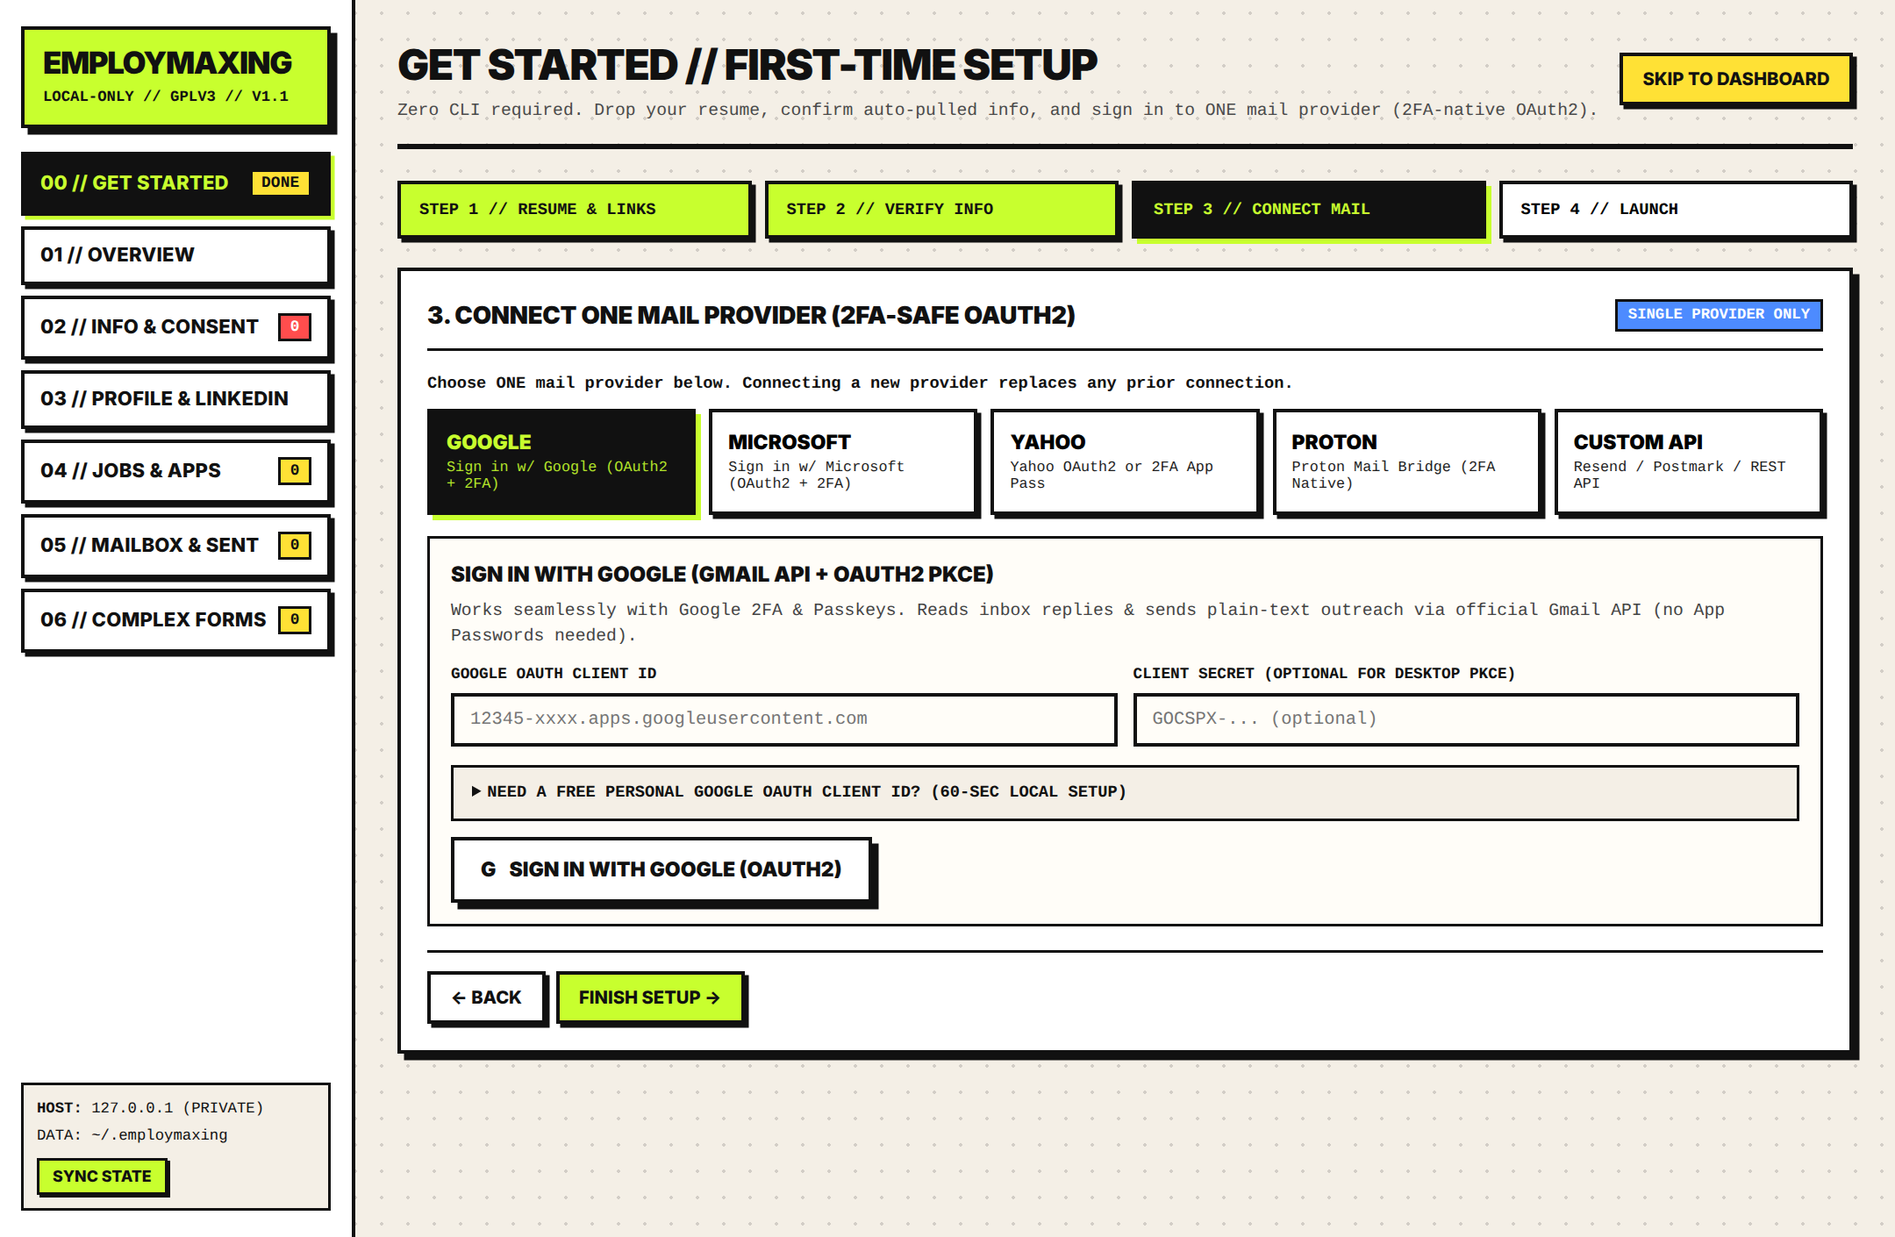
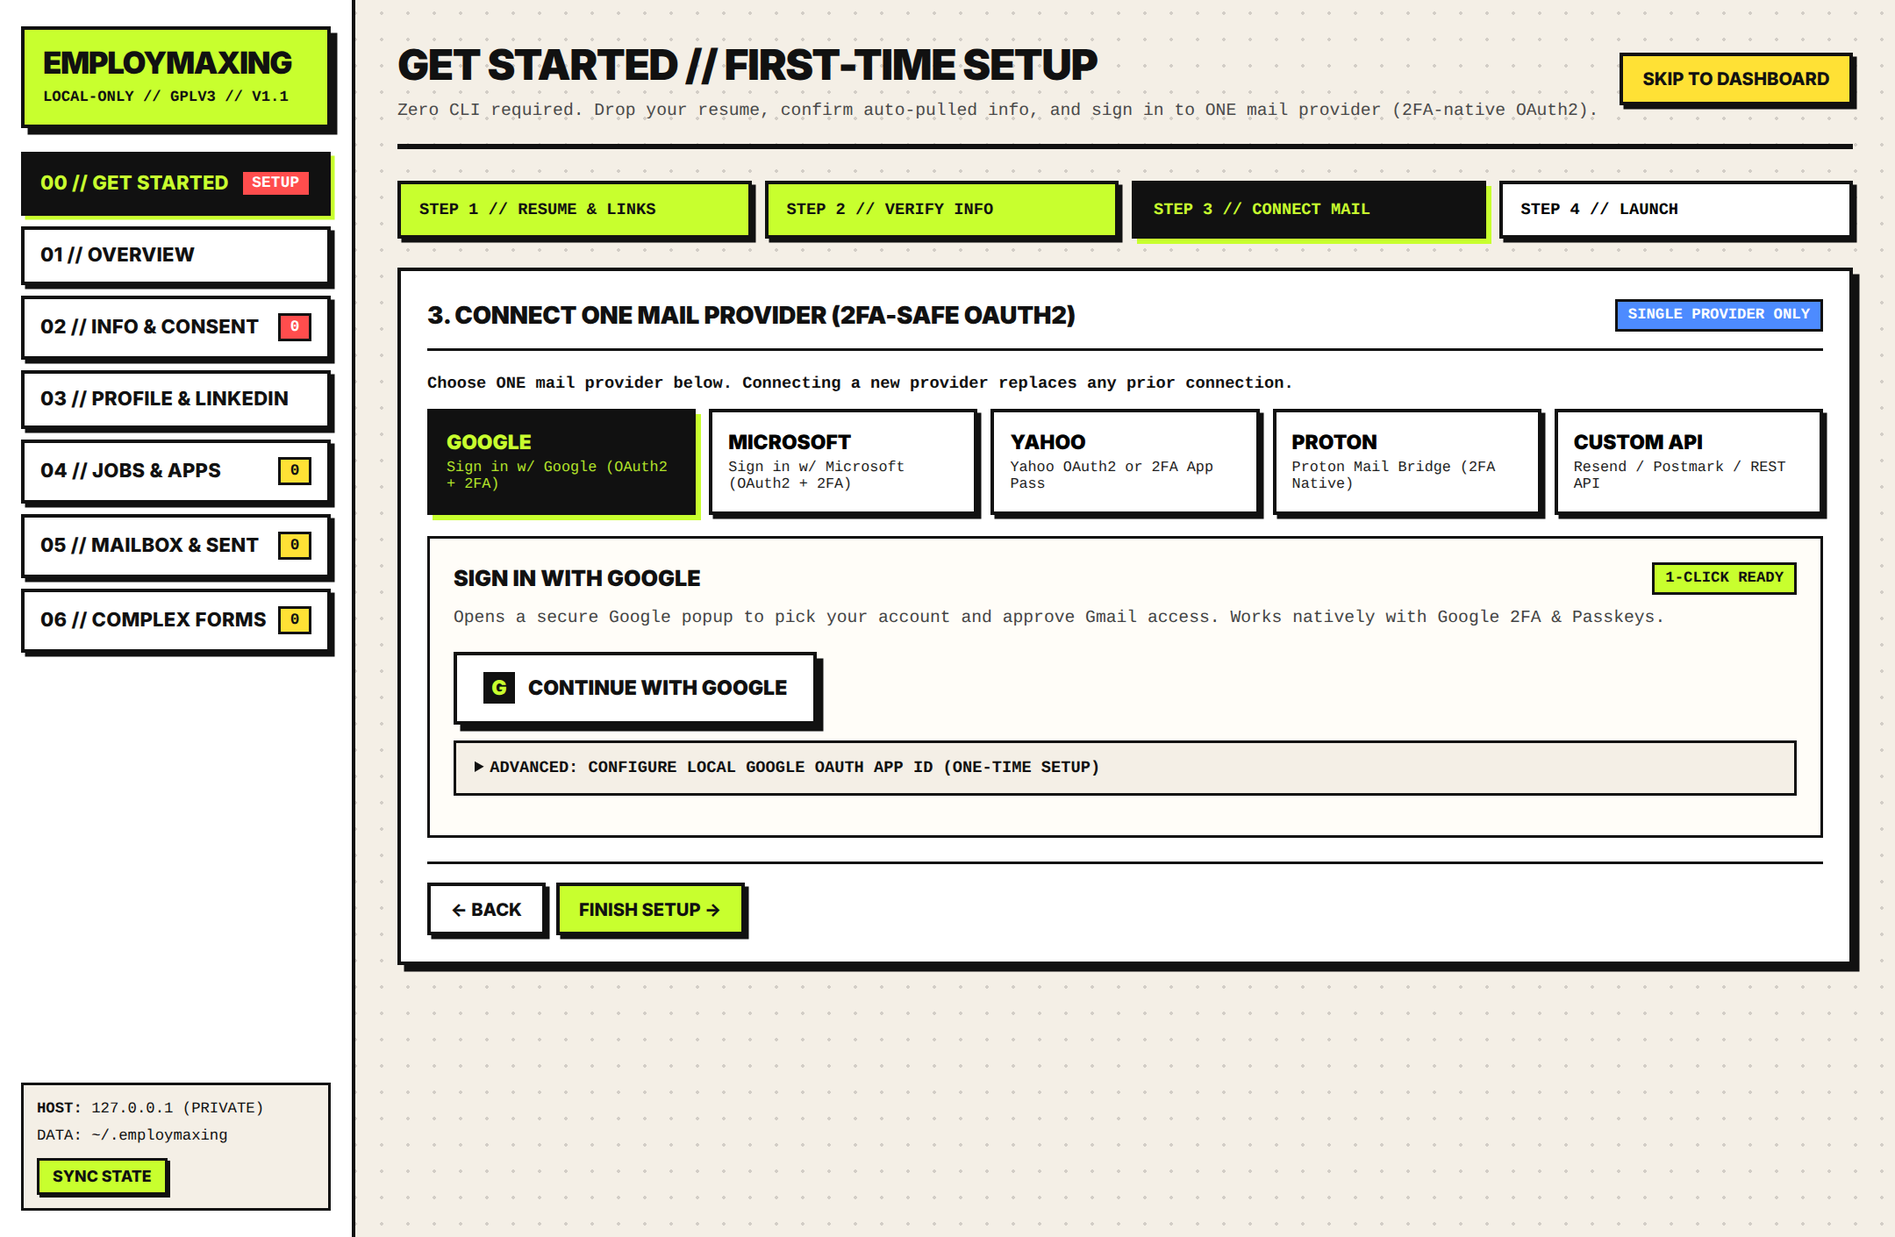
feat(oauth): simplify mail login to 1-click Continue with Google/Microsoft/Yahoo popup with bundled oauth_defaults.json support

Changed region(s): [[0.1861, 0.4369, 0.9926, 0.8738], [0.1241, 0.1248, 0.1861, 0.156]]

diff --git a/web/app.js b/web/app.js
@@ -256,98 +256,115 @@ function renderSingleProviderHTML(prefix) {
     `).join('')}
   </div>`;
 
+  const readyMap = cfg.oauth_ready || {};
+
   if (sel === 'google') {
     const uri = redir.google || `${location.origin}/api/oauth/google/callback`;
+    const isReady = !!readyMap.google;
     html += `
-      <div style="border:2px solid #111;padding:16px;background:#FFFDF8;">
-        <div style="font-weight:900;text-transform:uppercase;margin-bottom:6px;">Sign in with Google (Gmail API + OAuth2 PKCE)</div>
-        <p class="mono" style="margin-bottom:12px;color:#444;">Works seamlessly with Google 2FA &amp; Passkeys. Reads inbox replies &amp; sends plain-text outreach via official Gmail API (no App Passwords needed).</p>
-        <div class="form-grid">
-          <div>
-            <label class="field-label">Google OAuth Client ID</label>
-            <input type="text" id="${prefix}-google-cid" value="${esc(cfg.provider === 'google' ? (cfg.client_id || '') : '')}" placeholder="12345-xxxx.apps.googleusercontent.com" />
-          </div>
-          <div>
-            <label class="field-label">Client Secret (Optional for Desktop PKCE)</label>
-            <input type="password" id="${prefix}-google-csec" placeholder="GOCSPX-... (optional)" />
-          </div>
+      <div style="border:2px solid #111;padding:18px;background:#FFFDF8;">
+        <div style="display:flex;justify-content:space-between;align-items:center;gap:10px;margin-bottom:8px;">
+          <div style="font-weight:900;font-size:1.05rem;text-transform:uppercase;">Sign in with Google</div>
+          <span class="tag ${isReady ? 'tag-lime' : 'tag-yellow'}">${isReady ? '1-CLICK READY' : '1-TIME APP ID NEEDED'}</span>
         </div>
-        <details class="brutal-details">
-          <summary>Need a free personal Google OAuth Client ID? (60-sec local setup)</summary>
-          <div class="mono" style="margin-top:8px;font-size:0.76rem;line-height:1.5;">
-            1. Open Google Cloud Console &rarr; APIs &amp; Services &rarr; Enable <strong>Gmail API</strong>.<br/>
-            2. Create <strong>OAuth Client ID</strong> (Web Application) and add Authorized Redirect URI:<br/>
-            <code style="background:#FFE135;padding:2px 6px;">${esc(uri)}</code>
-            <button type="button" class="btn btn-sm btn-yellow" style="margin-left:6px;" onclick="copyText('${esc(uri)}')">Copy URI</button>
-          </div>
-        </details>
+        <p class="mono" style="margin-bottom:16px;color:#444;">Opens a secure Google popup to pick your account and approve Gmail access. Works natively with Google 2FA &amp; Passkeys.</p>
         <button type="button" class="oauth-btn google" onclick="startOAuth('google', '${prefix}')">
-          <span>G</span> <span>Sign in with Google (OAuth2)</span>
+          <span style="display:inline-flex;width:24px;height:24px;align-items:center;justify-content:center;background:#111;color:#C8FF2E;font-weight:900;">G</span>
+          <span>Continue with Google</span>
         </button>
+        <details class="brutal-details" id="${prefix}-google-setup" ${isReady ? '' : ''}>
+          <summary>Advanced: Configure Local Google OAuth App ID (One-Time Setup)</summary>
+          <div class="mono" style="margin-top:10px;font-size:0.76rem;line-height:1.55;">
+            Because Employmaxing runs 100% locally on your computer with no cloud middleman, Google requires an OAuth Client ID once (or set it in <code>employmaxing/oauth_defaults.json</code> for all users):<br/>
+            1. <a href="https://console.cloud.google.com/apis/credentials" target="_blank"><strong>Open Google Cloud Credentials &nearr;</strong></a> &rarr; Enable <strong>Gmail API</strong> &rarr; Create <strong>OAuth Client ID (Web App)</strong>.<br/>
+            2. Add Redirect URI: <code style="background:#FFE135;padding:2px 6px;">${esc(uri)}</code>
+            <button type="button" class="btn btn-sm btn-yellow" style="margin-left:4px;" onclick="copyText('${esc(uri)}')">Copy</button>
+          </div>
+          <div class="form-grid" style="margin-top:10px;">
+            <div>
+              <label class="field-label">Google OAuth Client ID</label>
+              <input type="text" id="${prefix}-google-cid" value="${esc(cfg.provider === 'google' ? (cfg.client_id || '') : '')}" placeholder="12345-xxxx.apps.googleusercontent.com" />
+            </div>
+            <div>
+              <label class="field-label">Client Secret (Optional for PKCE)</label>
+              <input type="password" id="${prefix}-google-csec" placeholder="GOCSPX-... (optional)" />
+            </div>
+          </div>
+          <button type="button" class="btn btn-sm btn-lime" onclick="startOAuth('google', '${prefix}')">Save &amp; Open Google Sign-In Popup &rarr;</button>
+        </details>
       </div>
     `;
   } else if (sel === 'microsoft') {
     const uri = redir.microsoft || `${location.origin}/api/oauth/microsoft/callback`;
+    const isReady = !!readyMap.microsoft;
     html += `
-      <div style="border:2px solid #111;padding:16px;background:#FFFDF8;">
-        <div style="font-weight:900;text-transform:uppercase;margin-bottom:6px;">Sign in with Microsoft (Outlook / M365 Graph API + PKCE)</div>
-        <p class="mono" style="margin-bottom:12px;color:#444;">Works seamlessly with Microsoft Authenticator &amp; 2FA. Public PKCE client — <strong>no client secret required</strong>.</p>
-        <div class="form-grid">
-          <div>
-            <label class="field-label">Microsoft App (Client) ID</label>
-            <input type="text" id="${prefix}-microsoft-cid" value="${esc(cfg.provider === 'microsoft' ? (cfg.client_id || '') : '')}" placeholder="xxxxxxxx-xxxx-xxxx-xxxx-xxxxxxxxxxxx" />
-          </div>
-          <div>
-            <label class="field-label">Your Display Name (Optional)</label>
-            <input type="text" id="${prefix}-microsoft-name" value="${esc(cfg.display_name || '')}" placeholder="Alex Mercer" />
-          </div>
+      <div style="border:2px solid #111;padding:18px;background:#FFFDF8;">
+        <div style="display:flex;justify-content:space-between;align-items:center;gap:10px;margin-bottom:8px;">
+          <div style="font-weight:900;font-size:1.05rem;text-transform:uppercase;">Sign in with Microsoft</div>
+          <span class="tag ${isReady ? 'tag-lime' : 'tag-yellow'}">${isReady ? '1-CLICK READY' : '1-TIME APP ID NEEDED'}</span>
         </div>
-        <details class="brutal-details">
-          <summary>Need a free personal Microsoft Entra / Azure App ID? (60-sec setup)</summary>
-          <div class="mono" style="margin-top:8px;font-size:0.76rem;line-height:1.5;">
-            1. Open Azure Portal &rarr; App Registrations &rarr; New Registration (Personal + Work accounts).<br/>
-            2. Add Platform: <strong>Mobile &amp; desktop / Public client</strong> Redirect URI:<br/>
-            <code style="background:#FFE135;padding:2px 6px;">${esc(uri)}</code>
-            <button type="button" class="btn btn-sm btn-yellow" style="margin-left:6px;" onclick="copyText('${esc(uri)}')">Copy URI</button><br/>
-            3. Add Delegated Permissions: <code>Mail.Read</code>, <code>Mail.Send</code>, <code>User.Read</code>.
-          </div>
-        </details>
+        <p class="mono" style="margin-bottom:16px;color:#444;">Opens a secure Microsoft popup to pick your Outlook / Office 365 account. Works natively with Microsoft Authenticator &amp; 2FA (no client secret needed).</p>
         <button type="button" class="oauth-btn microsoft" onclick="startOAuth('microsoft', '${prefix}')">
-          <span>M</span> <span>Sign in with Microsoft (OAuth2)</span>
+          <span style="display:inline-flex;width:24px;height:24px;align-items:center;justify-content:center;background:#111;color:#FFFFFF;font-weight:900;">M</span>
+          <span>Continue with Microsoft</span>
         </button>
+        <details class="brutal-details" id="${prefix}-microsoft-setup">
+          <summary>Advanced: Configure Local Microsoft App ID (One-Time, No Secret)</summary>
+          <div class="mono" style="margin-top:10px;font-size:0.76rem;line-height:1.55;">
+            1. <a href="https://portal.azure.com/#view/Microsoft_AAD_RegisteredApps/ApplicationsListBlade" target="_blank"><strong>Open Azure App Registrations &nearr;</strong></a> &rarr; New Registration (Personal + Work accounts).<br/>
+            2. Add Public Client Redirect URI: <code style="background:#FFE135;padding:2px 6px;">${esc(uri)}</code>
+            <button type="button" class="btn btn-sm btn-yellow" style="margin-left:4px;" onclick="copyText('${esc(uri)}')">Copy</button><br/>
+            3. Add Delegated Permissions: <code>Mail.Read</code>, <code>Mail.Send</code>, <code>User.Read</code> (or bundle Client ID once in <code>employmaxing/oauth_defaults.json</code>).
+          </div>
+          <div class="form-grid" style="margin-top:10px;">
+            <div>
+              <label class="field-label">Microsoft Application (Client) ID</label>
+              <input type="text" id="${prefix}-microsoft-cid" value="${esc(cfg.provider === 'microsoft' ? (cfg.client_id || '') : '')}" placeholder="xxxxxxxx-xxxx-xxxx-xxxx-xxxxxxxxxxxx" />
+            </div>
+          </div>
+          <button type="button" class="btn btn-sm btn-lime" onclick="startOAuth('microsoft', '${prefix}')">Save &amp; Open Microsoft Sign-In Popup &rarr;</button>
+        </details>
       </div>
     `;
   } else if (sel === 'yahoo') {
     const uri = redir.yahoo || `${location.origin}/api/oauth/yahoo/callback`;
+    const isReady = !!readyMap.yahoo;
     html += `
-      <div style="border:2px solid #111;padding:16px;background:#FFFDF8;">
-        <div style="font-weight:900;text-transform:uppercase;margin-bottom:8px;">Yahoo Mail (OAuth2 OR 2FA App Password)</div>
-        <div class="form-grid">
-          <div>
-            <label class="field-label">Yahoo Email</label>
-            <input type="email" id="${prefix}-yahoo-email" value="${esc(cfg.provider === 'yahoo' ? (cfg.email || '') : '')}" placeholder="you@yahoo.com" />
-          </div>
-          <div>
-            <label class="field-label">Yahoo 2FA App Password</label>
-            <input type="password" id="${prefix}-yahoo-pass" placeholder="Generated in Yahoo Account Security" />
-          </div>
+      <div style="border:2px solid #111;padding:18px;background:#FFFDF8;">
+        <div style="display:flex;justify-content:space-between;align-items:center;gap:10px;margin-bottom:8px;">
+          <div style="font-weight:900;font-size:1.05rem;text-transform:uppercase;">Sign in with Yahoo Mail</div>
+          <span class="tag ${isReady ? 'tag-lime' : 'tag-yellow'}">${isReady ? '1-CLICK READY' : 'OAUTH2 / 2FA'}</span>
         </div>
-        <div class="btn-row" style="margin-bottom:10px;">
-          <button type="button" class="btn btn-lime" onclick="saveDirectProvider('yahoo', '${prefix}')">Connect Yahoo (2FA App Password)</button>
-        </div>
-        <details class="brutal-details">
-          <summary>Or use Yahoo OAuth2 Client ID (Redirect: ${esc(uri)})</summary>
-          <div class="form-grid" style="margin-top:8px;">
+        <p class="mono" style="margin-bottom:14px;color:#444;">Sign in via Yahoo OAuth2 popup or connect using a Yahoo 2FA App Password.</p>
+        <button type="button" class="oauth-btn yahoo" onclick="startOAuth('yahoo', '${prefix}')">
+          <span style="display:inline-flex;width:24px;height:24px;align-items:center;justify-content:center;background:#111;color:#FFE135;font-weight:900;">Y!</span>
+          <span>Continue with Yahoo</span>
+        </button>
+        <details class="brutal-details" id="${prefix}-yahoo-setup">
+          <summary>Advanced: Yahoo OAuth Client ID or 2FA App Password</summary>
+          <div class="form-grid" style="margin-top:10px;">
             <div>
-              <label class="field-label">Yahoo Client ID</label>
+              <label class="field-label">Yahoo OAuth Client ID (Redirect: ${esc(uri)})</label>
               <input type="text" id="${prefix}-yahoo-cid" placeholder="dj0yJmk9..." />
             </div>
             <div>
-              <label class="field-label">Yahoo Client Secret</label>
-              <input type="password" id="${prefix}-yahoo-csec" placeholder="Optional for PKCE" />
+              <label class="field-label">Yahoo OAuth Secret (Optional)</label>
+              <input type="password" id="${prefix}-yahoo-csec" placeholder="Optional" />
             </div>
           </div>
-          <button type="button" class="oauth-btn yahoo" onclick="startOAuth('yahoo', '${prefix}')">Sign in with Yahoo (OAuth2)</button>
+          <div style="border-top:2px solid #111;padding-top:10px;margin-top:8px;">
+            <div class="form-grid">
+              <div>
+                <label class="field-label">Or Yahoo Email</label>
+                <input type="email" id="${prefix}-yahoo-email" value="${esc(cfg.provider === 'yahoo' ? (cfg.email || '') : '')}" placeholder="you@yahoo.com" />
+              </div>
+              <div>
+                <label class="field-label">Yahoo 2FA App Password</label>
+                <input type="password" id="${prefix}-yahoo-pass" placeholder="Generated in Yahoo Account Security" />
+              </div>
+            </div>
+            <button type="button" class="btn btn-sm btn-lime" onclick="saveDirectProvider('yahoo', '${prefix}')">Connect via 2FA App Password</button>
+          </div>
         </details>
       </div>
     `;
@@ -430,10 +447,18 @@ function renderSingleProviderWidgets() {
 }
 
 async function startOAuth(provider, prefix) {
+  const cidEl = document.getElementById(`${prefix}-${provider}-cid`);
+  const csecEl = document.getElementById(`${prefix}-${provider}-csec`);
+  const nameEl = document.getElementById(`${prefix}-${provider}-name`);
+  const hasReady = !!((STATE.mailCfg && STATE.mailCfg.oauth_ready && STATE.mailCfg.oauth_ready[provider]) || (cidEl && cidEl.value.trim()));
+
+  // Open popup synchronously inside user click handler so browser popup blockers NEVER block it!
+  let popup = null;
+  if (hasReady) {
+    popup = window.open('about:blank', `employmaxing_oauth_${provider}`, 'width=540,height=680');
+  }
+
   try {
-    const cidEl = document.getElementById(`${prefix}-${provider}-cid`);
-    const csecEl = document.getElementById(`${prefix}-${provider}-csec`);
-    const nameEl = document.getElementById(`${prefix}-${provider}-name`);
     const res = await api(`/api/oauth/${provider}/start`, {
       method: 'POST',
       body: JSON.stringify({
@@ -442,14 +467,24 @@ async function startOAuth(provider, prefix) {
         display_name: nameEl ? nameEl.value.trim() : '',
       }),
     });
-    const popup = window.open(res.auth_url, `employmaxing_oauth_${provider}`, 'width=560,height=700');
-    if (!popup) {
-      window.location.href = res.auth_url;
+    if (popup && !popup.closed) {
+      popup.location.href = res.auth_url;
+      toast(`Pick your ${provider.toUpperCase()} account in the popup to finish signing in...`);
     } else {
-      toast(`Complete ${provider.toUpperCase()} Sign-In in the popup window...`);
+      window.location.href = res.auth_url;
     }
   } catch (e) {
-    toast(e.message);
+    if (popup && !popup.closed) popup.close();
+    if (String(e.message).includes('OAUTH_NOT_REGISTERED')) {
+      const det = document.getElementById(`${prefix}-${provider}-setup`);
+      if (det) {
+        det.open = true;
+        det.scrollIntoView({ behavior: 'smooth', block: 'nearest' });
+      }
+      toast(`Paste a ${provider.toUpperCase()} Client ID once (or bundle it in employmaxing/oauth_defaults.json) to enable instant 1-click popups!`);
+    } else {
+      toast(e.message);
+    }
   }
 }
 

diff --git a/employmaxing/mail_oauth.py b/employmaxing/mail_oauth.py
@@ -62,6 +62,61 @@ OAUTH_SPECS = {
 
 # In-memory short-lived PKCE state store (local loopback session only)
 _PENDING_OAUTH: dict[str, dict] = {}
+DEFAULTS_FILE = Path(__file__).resolve().parent / "oauth_defaults.json"
+
+
+def _load_bundled_oauth_defaults() -> dict:
+    if DEFAULTS_FILE.exists():
+        try:
+            return json.loads(DEFAULTS_FILE.read_text(encoding="utf-8"))
+        except Exception:
+            return {}
+    return {}
+
+
+def _load_user_oauth_apps(store: EmploymaxingStore) -> dict:
+    p = store.data_dir / "oauth-apps.json"
+    if p.exists():
+        try:
+            return json.loads(p.read_text(encoding="utf-8"))
+        except Exception:
+            return {}
+    return {}
+
+
+def save_user_oauth_app(store: EmploymaxingStore, provider: str, client_id: str, client_secret: str = ""):
+    """Persist user's OAuth app credentials separately so switching/disconnecting mail never loses them."""
+    apps = _load_user_oauth_apps(store)
+    apps[provider] = {"client_id": client_id.strip(), "client_secret": client_secret.strip()}
+    p = store.data_dir / "oauth-apps.json"
+    p.write_text(json.dumps(apps, indent=2), encoding="utf-8")
+    os.chmod(p, 0o600)
+
+
+def resolve_oauth_client(store: EmploymaxingStore, provider: str, override_id: str = "", override_secret: str = "") -> tuple[str, str]:
+    """Resolve OAuth Client ID/Secret: explicit override -> ~/.employmaxing/oauth-apps.json -> env -> bundled defaults."""
+    spec = OAUTH_SPECS[provider]
+    user_apps = _load_user_oauth_apps(store).get(provider, {})
+    bundled = _load_bundled_oauth_defaults().get(provider, {})
+    existing = load_active_mail_config(store)
+    active_cid = existing.get("client_id", "") if existing.get("provider") == provider else ""
+    active_csec = existing.get("client_secret", "") if existing.get("provider") == provider else ""
+
+    cid = (
+        override_id.strip()
+        or user_apps.get("client_id", "").strip()
+        or active_cid.strip()
+        or os.environ.get(spec["env_client_id"], "").strip()
+        or bundled.get("client_id", "").strip()
+    )
+    csec = (
+        override_secret.strip()
+        or user_apps.get("client_secret", "").strip()
+        or active_csec.strip()
+        or os.environ.get(spec["env_client_secret"], "").strip()
+        or bundled.get("client_secret", "").strip()
+    )
+    return cid, csec
 
 
 def _b64url(raw: bytes) -> str:
@@ -167,9 +222,9 @@ def get_public_mail_status(store: EmploymaxingStore) -> dict:
     safe["configured"] = bool(provider and (has_oauth or has_pass or has_api or cfg.get("connected")))
     safe["has_client_id"] = bool(cfg.get("client_id"))
     safe["has_refresh_token"] = bool(cfg.get("refresh_token"))
-    safe["env_oauth_ready"] = {
-        prov: bool(os.environ.get(spec["env_client_id"]))
-        for prov, spec in OAUTH_SPECS.items()
+    safe["oauth_ready"] = {
+        prov: bool(resolve_oauth_client(store, prov)[0])
+        for prov in OAUTH_SPECS
     }
     return safe
 
@@ -188,23 +243,13 @@ def start_oauth_flow(
         raise ValueError(f"OAuth2 sign-in is supported for google, microsoft, and yahoo (got '{provider}').")
 
     spec = OAUTH_SPECS[provider]
-    existing = load_active_mail_config(store)
-    cid = (
-        client_id.strip()
-        or os.environ.get(spec["env_client_id"], "").strip()
-        or (existing.get("client_id", "") if existing.get("provider") == provider else "")
-    )
-    csec = (
-        client_secret.strip()
-        or os.environ.get(spec["env_client_secret"], "").strip()
-        or (existing.get("client_secret", "") if existing.get("provider") == provider else "")
-    )
+    cid, csec = resolve_oauth_client(store, provider, client_id, client_secret)
 
     if not cid:
-        raise ValueError(
-            f"A {spec['label']} OAuth Client ID is required once (set in the box below or via {spec['env_client_id']}). "
-            f"Redirect URI to register: {redirect_uri}"
-        )
+        raise ValueError(f"OAUTH_NOT_REGISTERED:{provider}")
+
+    if client_id.strip():
+        save_user_oauth_app(store, provider, cid, csec)
 
     state = secrets.token_urlsafe(24)
     verifier, challenge = _generate_pkce()
